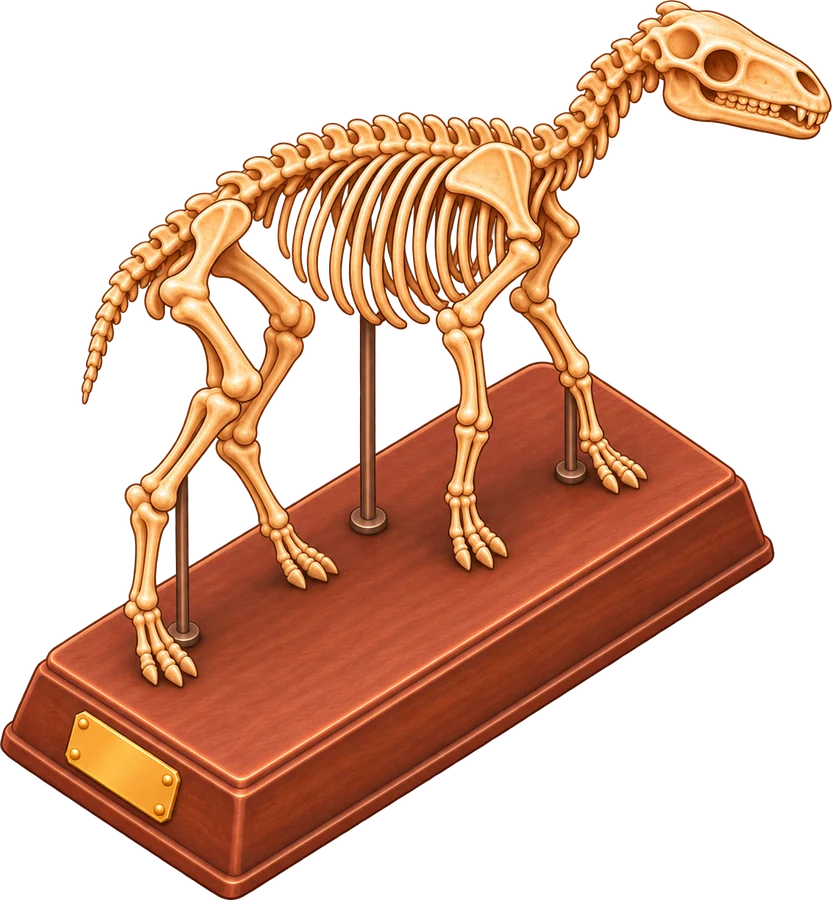
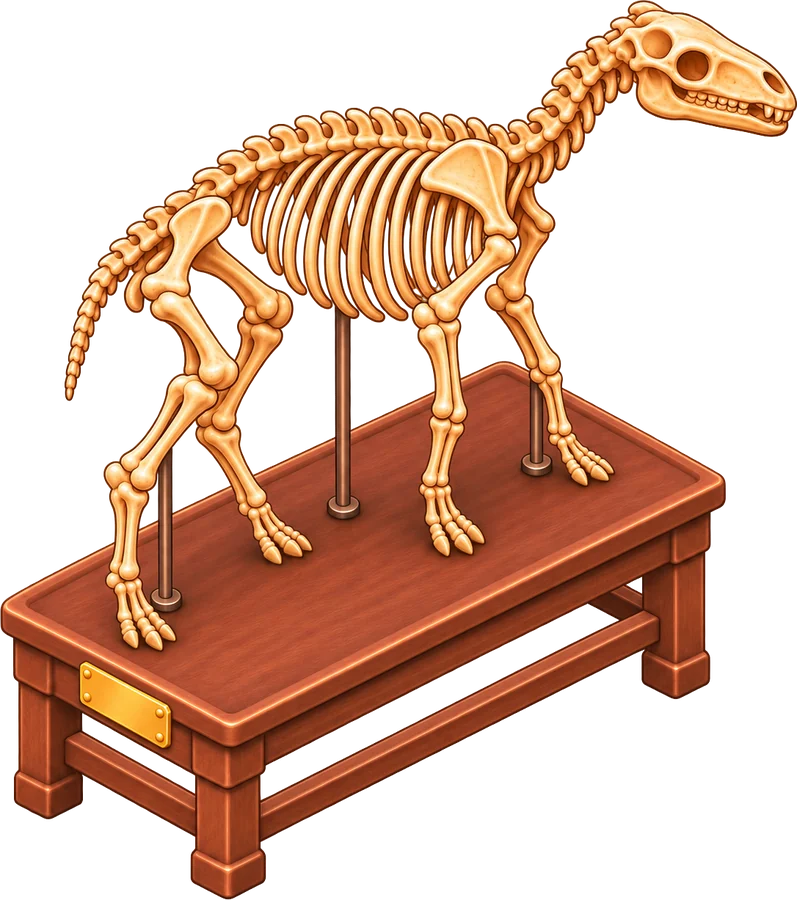
Museumshalle: kleine Tiere auf Säulen bzw. Tisch, belegen weniger Felder
Claude-Session: https://claude.ai/code/session_01UZ49mRRMnRHWRQ5bRbCUMB

diff --git a/src/game.html b/src/game.html
@@ -1572,9 +1572,9 @@ function renderShop(){
    Exponate: Bilder ex_<id>.webp, Sockel-Messpunkte in HALLMETA (neu erzeugen mit tools/hall/meta.py).
    Spielstand: S.hall={v:2, r:{saal:{lv,nm}}, it:{skelett:[i,j,gedreht]}, dk:{k1:{t:art,p:[i,j,gedreht]}}, dn:Zähler, inv:{art:anzahl}, rv:{fund:[i,j,gedreht]}}
    (i,j = Felder im ganzen Museum). Deko kommt aus dk_<art>.webp (Maße in DECOMETA), seltene Funde stehen in einer Vitrine (dk_vitrine.webp). */
-const HALLMETA={"allo":[900,872,343,870,95,701,820,561],"andr":[879,900,242,899,6,736,839,521],"anky":[900,739,311,736,49,556,890,355],"arch":[900,900,360,872,122,711,800,581],"baer":[856,900,296,898,1,700,854,541],"basi":[900,900,184,863,10,753,883,434],"brac":[900,900,340,899,136,784,732,686],"coel":[900,874,319,871,87,714,827,558],"darw":[900,900,285,899,35,744,847,548],"dime":[882,900,307,899,19,714,881,542],"dipl":[900,653,231,650,89,556,861,262],"edap":[900,900,326,895,50,708,890,540],"eora":[900,900,382,741,250,664,641,616],"gast":[708,900,223,898,1,751,644,614],"glyp":[854,900,294,899,0,714,852,555],"herr":[900,823,320,820,79,655,838,501],"icht":[900,728,224,726,47,608,845,396],"igua":[900,842,288,839,59,676,877,489],"inos":[900,878,299,876,1,679,879,512],"mamm":[854,900,278,899,0,718,791,564],"megl":[830,900,232,898,1,751,650,636],"meso":[900,832,278,830,27,663,881,464],"mosa":[900,779,207,776,29,667,887,427],"nash":[900,848,283,846,1,656,832,494],"noth":[896,900,273,898,60,753,817,564],"pars":[900,899,305,896,59,733,873,551],"plat":[899,900,288,898,33,725,857,559],"prac":[848,900,202,899,1,760,748,603],"prop":[832,900,229,899,1,743,773,554],"pter":[900,781,276,779,74,633,811,459],"rham":[900,790,289,789,99,662,795,493],"scut":[900,819,309,816,1,617,884,459],"smil":[860,900,294,896,1,698,858,531],"spin":[900,900,300,872,80,712,847,527],"steg":[899,900,339,898,68,716,852,558],"trex":[900,900,360,877,109,716,830,566],"tric":[888,900,325,899,37,701,886,531],"velo":[900,865,355,862,117,696,833,548]};   // [w,h, Sockel vorne x,y, links x,y, rechts x,y]  (tools/hall/meta.py)
-const HALL_SZ={dime:3,edap:3,scut:3,inos:3,meso:2,plat:4,herr:3,coel:3,eora:2,noth:3,arch:2,allo:4,steg:4,brac:5,dipl:5,icht:3,rham:2,
-  tric:4,velo:2,anky:4,spin:5,trex:5,pter:3,mosa:5,pars:4,igua:4,gast:3,basi:5,darw:2,prop:2,andr:4,prac:5,mamm:4,smil:3,nash:3,baer:3,megl:3,glyp:3};   // Sockellänge in Feldern
+const HALLMETA={"allo":[900,872,343,870,95,701,820,561],"andr":[879,900,242,899,6,736,839,521],"anky":[900,739,311,736,49,556,890,355],"arch":[569,900,280,898,137,664,428,539],"baer":[856,900,296,898,1,700,854,541],"basi":[900,900,184,863,10,753,883,434],"brac":[900,900,340,899,136,784,732,686],"coel":[900,874,319,871,87,714,827,558],"darw":[447,900,201,897,62,798,358,564],"dime":[882,900,307,899,19,714,881,542],"dipl":[900,653,231,650,89,556,861,262],"edap":[900,900,326,895,50,708,890,540],"eora":[900,900,429,894,274,428,605,400],"gast":[708,900,223,898,1,751,644,614],"glyp":[854,900,294,899,0,714,852,555],"herr":[900,823,320,820,79,655,838,501],"icht":[900,728,224,726,47,608,845,396],"igua":[900,842,288,839,59,676,877,489],"inos":[900,878,299,876,1,679,879,512],"mamm":[854,900,278,899,0,718,791,564],"megl":[830,900,232,898,1,751,650,636],"meso":[900,832,278,830,27,663,881,464],"mosa":[900,779,207,776,29,667,887,427],"nash":[900,848,283,846,1,656,832,494],"noth":[896,900,273,898,60,753,817,564],"pars":[900,899,305,896,59,733,873,551],"plat":[899,900,288,898,33,725,857,559],"prac":[848,900,202,899,1,760,748,603],"prop":[797,900,228,865,1,621,724,495],"pter":[900,781,276,779,74,633,811,459],"rham":[900,900,454,883,338,794,571,791],"scut":[900,819,309,816,1,617,884,459],"smil":[860,900,294,896,1,698,858,531],"spin":[900,900,300,872,80,712,847,527],"steg":[899,900,339,898,68,716,852,558],"trex":[900,900,360,877,109,716,830,566],"tric":[888,900,325,899,37,701,886,531],"velo":[900,900,444,894,298,770,599,386]};   // [w,h, Sockel vorne x,y, links x,y, rechts x,y]  (tools/hall/meta.py)
+const HALL_SZ={dime:3,edap:3,scut:3,inos:3,meso:2,plat:4,herr:3,coel:3,eora:1,noth:3,arch:1,allo:4,steg:4,brac:5,dipl:5,icht:3,rham:1,
+  tric:4,velo:1,anky:4,spin:5,trex:5,pter:3,mosa:5,pars:4,igua:4,gast:3,basi:5,darw:1,prop:2,andr:4,prac:5,mamm:4,smil:3,nash:3,baer:3,megl:3,glyp:3};   // Sockellänge in Feldern (kleine Tiere stehen auf einer Säule: 1 Feld)
 const DECOMETA={"carpet":[600,479,231,478],"desk":[579,600,125,599],"ammo":[504,600,203,599],"nest":[600,546,298,545],"globe":[405,600,202,599],"case":[500,600,249,599],"lamp":[204,600,101,599],"rope":[589,600,83,599],"info":[489,600,370,599],"bench":[600,560,159,559],"cycad":[549,600,269,599],"fern":[573,600,282,599],"vitrine":[364,600,181,599]};   // [w,h, unterster Punkt x,y]
 const HDECO={fern:{f:[1,1],k:1.6,p:300},cycad:{f:[1,1],k:1.6,p:300},bench:{f:[1,2],k:1,p:250},info:{f:[2,1],k:1,p:200},rope:{f:[1,2],k:1,p:150},lamp:{f:[1,1],k:.55,p:250},
   case:{f:[1,1],k:1,p:700},globe:{f:[1,1],k:.95,p:600},nest:{f:[1,1],k:1,p:900},ammo:{f:[1,1],k:1.15,p:800},desk:{f:[1,3],k:1,p:1500},carpet:{f:[2,3],k:1,p:400,flat:1}};   // Grundfläche, Bildbreite relativ zur Grundfläche, Preis (vorläufig)
